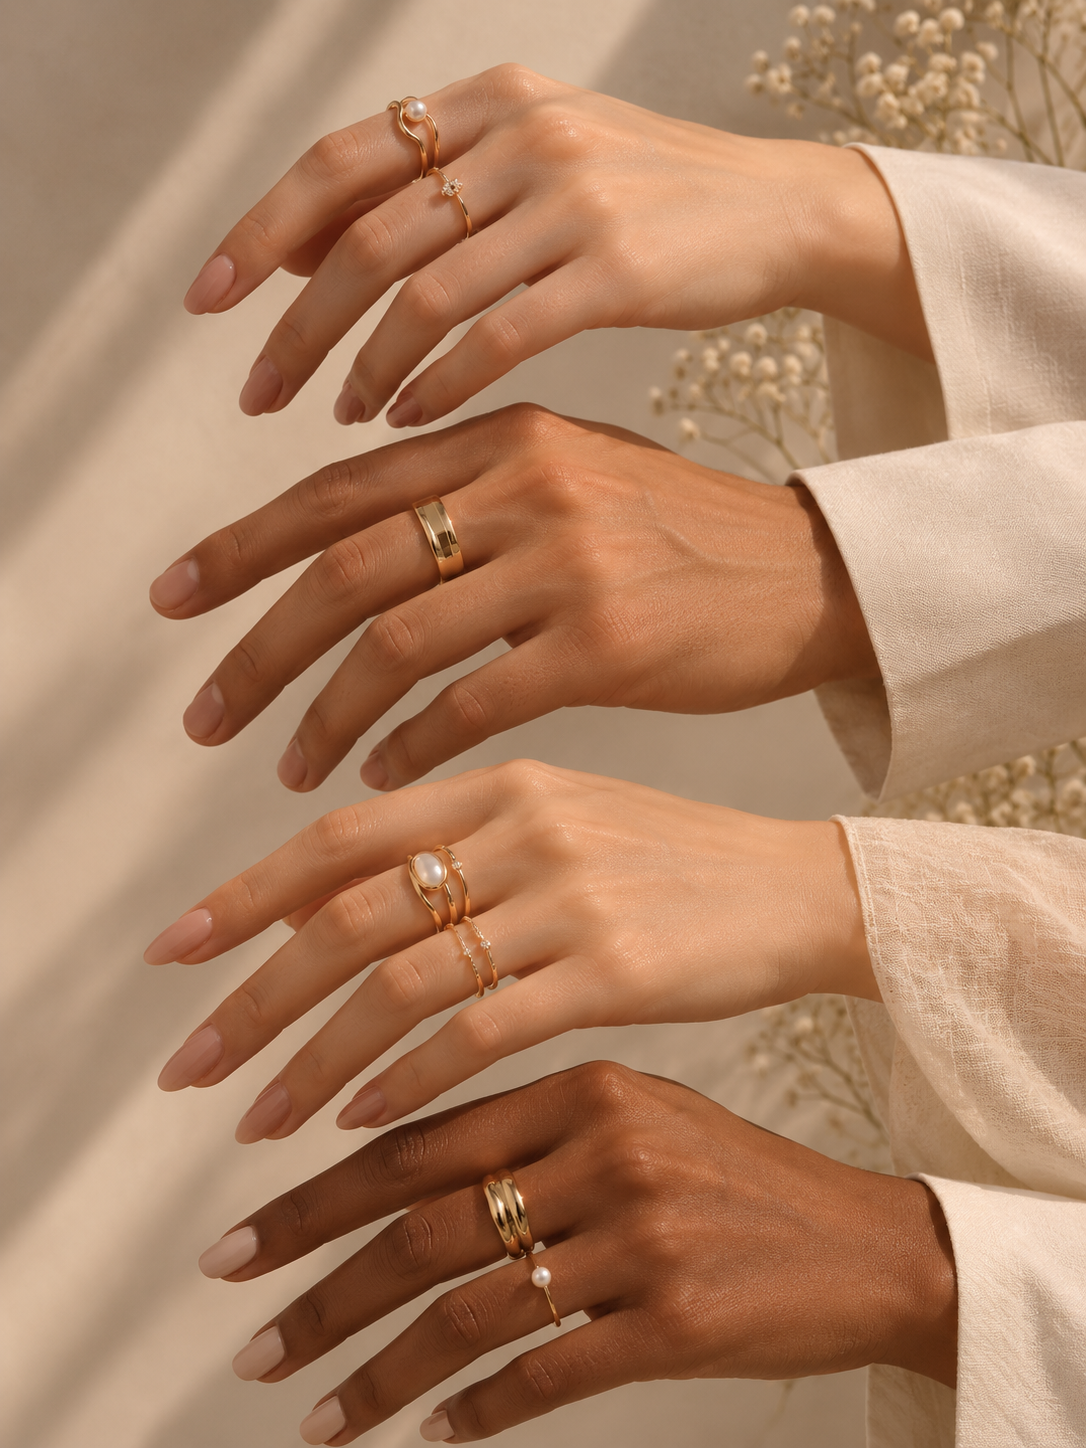
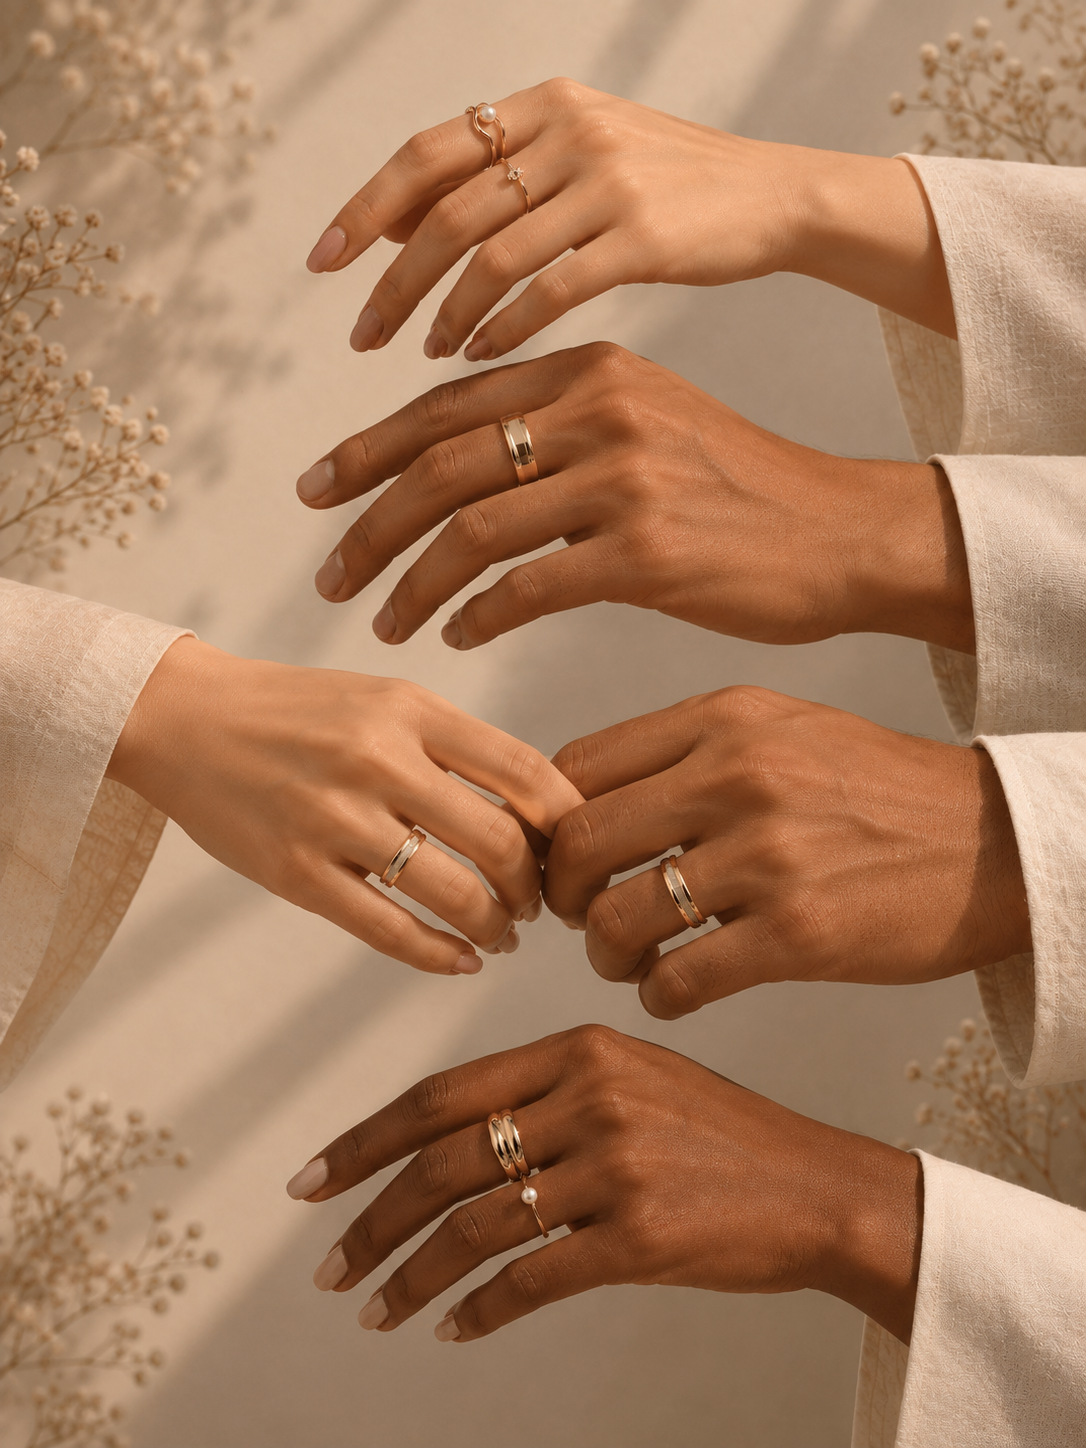
feat(categories): implement editorial hover interactions

diff --git a/src/components/categories/CategoryCard.tsx b/src/components/categories/CategoryCard.tsx
@@ -8,6 +8,12 @@ interface CategoryCardProps {
   title: string;
   image?: string;
   productCount: number;
+
+  editorial: {
+    category: string;
+    audience: string;
+  };
+
   href?: string;
   size?: "desktop" | "tablet" | "mobile";
 }
@@ -16,6 +22,7 @@ export default function CategoryCard({
   title,
   image,
   productCount,
+  editorial,
   href = "#",
 }: CategoryCardProps) {
   return (
@@ -68,6 +75,66 @@ export default function CategoryCard({
         "
       />
 
+      {/* Editorial Hover */}
+      <div
+        className="
+    pointer-events-none
+
+    absolute
+    left-8
+    top-1/2
+    -translate-y-1/2
+
+    text-white
+
+    opacity-0
+    -translate-x-6
+
+    transition-all
+    duration-500
+    ease-out
+
+    group-hover:translate-x-0
+    group-hover:opacity-100
+  "
+      >
+        <div className="ml-1.5">
+          <p
+            className="
+            text-xs
+            font-medium
+            tracking-[0.35em]
+            uppercase
+            text-white/90
+            "
+          >
+            {editorial.category}
+          </p>
+
+          <p
+            className="
+            mt-2
+            text-lg
+            tracking-[0.35em]
+            uppercase
+            text-white/80
+            "
+          >
+            FOR
+          </p>
+        </div>
+
+        <h2
+          className="
+            font-display
+            text-6xl
+            leading-none
+            "
+        >
+          {editorial.audience}
+        </h2>
+      </div>
+
       {/* Content */}
       <div
         className="
@@ -88,15 +155,14 @@ export default function CategoryCard({
               font-display
               text-[32px]
               leading-none
-              transition-transform
-              duration-500
-              group-hover:-translate-y-1
+              
             "
           >
             {title}
           </h3>
-
-          <p className="mt-2 text-sm text-white/80">{productCount}</p>
+          <p className="mt-2 text-sm text-white/80">
+            {productCount} Pieces
+          </p>{" "}
         </div>
 
         <ArrowRight

diff --git a/src/components/categories/data/categories.ts b/src/components/categories/data/categories.ts
@@ -4,41 +4,82 @@ export const CATEGORIES = [
     title: "Necklaces",
     productCount: 42,
     image: "/images/categories/Necklace.png",
+
+    editorial: {
+      category: "NECKLACES",
+      audience: "HER",
+    },
+
     href: "/collections/necklaces",
   },
+
   {
     id: 2,
     title: "Bracelets",
     productCount: 28,
     image: "/images/categories/Bracelet.png",
+
+    editorial: {
+      category: "BRACELETS",
+      audience: "US",
+    },
+
     href: "/collections/bracelets",
   },
+
   {
     id: 3,
     title: "Rings",
     productCount: 36,
     image: "/images/categories/Rings.png",
+
+    editorial: {
+      category: "RINGS",
+      audience: "US",
+    },
+
     href: "/collections/rings",
   },
+
   {
     id: 4,
     title: "Earrings",
     productCount: 31,
     image: "/images/categories/Women-Eranings.png",
+
+    editorial: {
+      category: "EARRINGS",
+      audience: "HER",
+    },
+
     href: "/collections/earrings",
   },
+
   {
     id: 5,
     title: "Pearls",
     productCount: 18,
     image: "/images/categories/Pearl.png",
+
+    editorial: {
+      category: "PEARLS",
+      audience: "HER",
+    },
+
     href: "/collections/pearls",
   },
+
   {
     id: 6,
     title: "Men",
     productCount: 24,
     image: "/images/categories/Men.png",
+
+    editorial: {
+      category: "JEWELRY",
+      audience: "HIM",
+    },
+
     href: "/collections/mens",
   },
 ];

diff --git a/src/components/categories/layouts/DesktopLayout.tsx b/src/components/categories/layouts/DesktopLayout.tsx
@@ -127,9 +127,9 @@ export default function DesktopLayout() {
                   <motion.div
                     key={category.id}
                     className={`
-  shrink-0 rounded-[32px]
-  ${distance === 0 ? "shadow-2xl" : "shadow-lg"}
-`}
+                    shrink-0 rounded-[32px]
+                    ${distance === 0 ? "shadow-2xl" : "shadow-lg"}
+                    `}
                     style={{
                       width: DESKTOP_CATEGORY_LAYOUT.carousel.cardWidth,
                       height: DESKTOP_CATEGORY_LAYOUT.carousel.cardHeight,
@@ -151,6 +151,7 @@ export default function DesktopLayout() {
                       title={category.title}
                       productCount={category.productCount}
                       image={category.image}
+                      editorial={category.editorial}
                       href={category.href}
                     />
                   </motion.div>
